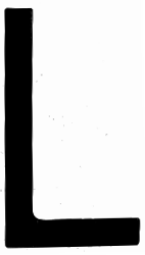
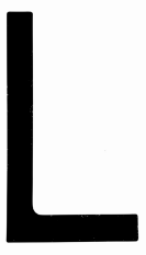
Slovak licence number charset completed.

Changed region(s): [[0.0, 0.0275, 0.9931, 0.9882], [0.1931, 0.1647, 0.2483, 0.6314]]

diff --git a/rzgenerator.py b/rzgenerator.py
@@ -78,22 +78,20 @@ def generate_char(offset, images, nation):
 	return character
 
 def addDistrict(offset1, offset2, background, source):
-	# sk_shortcuts = ['BA','BL','BB','BJ','BN','BR',
-	# 				'BS','BY','CA','DK','DS','DT',
-	# 				'GA','GL','HC','HE','IL','KA',
-	# 				'KE','KK','KM','KN','KS','LC',
-	# 				'LE','LM','LV','MA','MI','ML',
-	# 				'MT','MY','NR','NM','NO','NZ',
-	# 				'PB','PD','PE','PK','PN','PO',
-	# 				'PP','PT','PU','RA','RK','RS',
-	# 				'RV','SA','SB','SC','SE','SI',
-	# 				'SK','SL','SN','SO','SP','SV',
-	# 				'TT','TN','TO','TR','TS','TV',
-	# 				'VK','VT','ZA','ZC','ZH','ZM','ZV']
+	sk_shortcuts = ['BA','BL','BB','BJ','BN','BR',
+					'BS','BY','CA','DK','DS','DT',
+					'GA','GL','HC','HE','IL','KA',
+					'KE','KK','KM','KN','KS','LC',
+					'LE','LM','LV','MA','MI','ML',
+					'MT','MY','NR','NM','NO','NZ',
+					'PB','PD','PE','PK','PN','PO',
+					'PP','PT','PU','RA','RK','RS',
+					'RV','SA','SB','SC','SE','SI',
+					'SK','SL','SN','SO','SP','SV',
+					'TT','TN','TO','TR','TS','TV',
+					'VK','VT','ZA','ZC','ZH','ZM','ZV']
 
-	sk_shortcuts = ['BA','MI','NM','MT','ML','KM','KA','MA','PO','KK','NO','PT','PP','TO','TN','TT','KN','KE','BJ','GL','LE','BN','BB','BL','PB']
-	rand = random.randint(0, 24)
-	#rand = random.randint(0,72)
+	rand = random.randint(0,72)
 	background.paste(Image.open(source+sk_shortcuts[rand][0]+'.png'),offset1)
 	background.paste(Image.open(source+sk_shortcuts[rand][1]+'.png'),offset2)
 	return sk_shortcuts[rand]
@@ -133,17 +131,17 @@ def main():
 			stk_layout_offset = (681,41) #(681,53)
 			background.paste(stk_layout_img, stk_layout_offset)
 
-			#STK
-			if i % 2 == 0:
-				stk_img = Image.open('/home/svoren258/Dokumenty/FIT_VUT/3_BIT/IBP/IBP/CZ/stk7.png','r')
-				stk_offset = (693,63) #(680,58)
-				background.paste(stk_img, stk_offset, stk_img)
+			# #STK
+			# if i % 2 == 0:
+			# 	stk_img = Image.open('/home/svoren258/Dokumenty/FIT_VUT/3_BIT/IBP/IBP/CZ/stk7.png','r')
+			# 	stk_offset = (693,63) #(680,58)
+			# 	background.paste(stk_img, stk_offset, stk_img)
 
-			#EK
-			if i % 4 == 0:
-				ek_img = Image.open('/home/svoren258/Dokumenty/FIT_VUT/3_BIT/IBP/IBP/CZ/ek.png','r')
-				ek_offset = (695,188)
-				background.paste(ek_img, ek_offset, ek_img)
+			# #EK
+			# if i % 4 == 0:
+			# 	ek_img = Image.open('/home/svoren258/Dokumenty/FIT_VUT/3_BIT/IBP/IBP/CZ/ek.png','r')
+			# 	ek_offset = (695,188)
+			# 	background.paste(ek_img, ek_offset, ek_img)
 
 			offsets = [(205,53),(358,53),(511,53),(854,53),(1007,53),(1160,53),(1313,53)]
 

diff --git a/supertool.py b/supertool.py
@@ -207,11 +207,12 @@ def createOutputImage(im_src, im_dst, pts_src, pts_dst, coordinates_x, coordinat
 	#showImage(im_out_linear,'im_linear')
 	#showImage(im_out_cubic,'im_cubic')
 
+	return im_out
 	#Resize image to wanted size
-	output_img = im_out[int(0.8*min(coordinates_y)):int(1.2*max(coordinates_y)), int(0.8*min(coordinates_x)):int(1.2*max(coordinates_x))]
+	#output_img = im_out[int(0.8*min(coordinates_y)):int(1.2*max(coordinates_y)), int(0.8*min(coordinates_x)):int(1.2*max(coordinates_x))]
 	#im_out = im_out[int(0.75*0.8*min(coordinates_y)):int(0.75*1.2*max(coordinates_y)), int(0.75*0.8*min(coordinates_x)):int(0.75*1.2*max(coordinates_x))]
 	
-	return output_img
+	#return output_img
 
 def getDestinationImage(tmp):
 	im_dst = cv2.imread(path_to_tmp+tmp,1)
